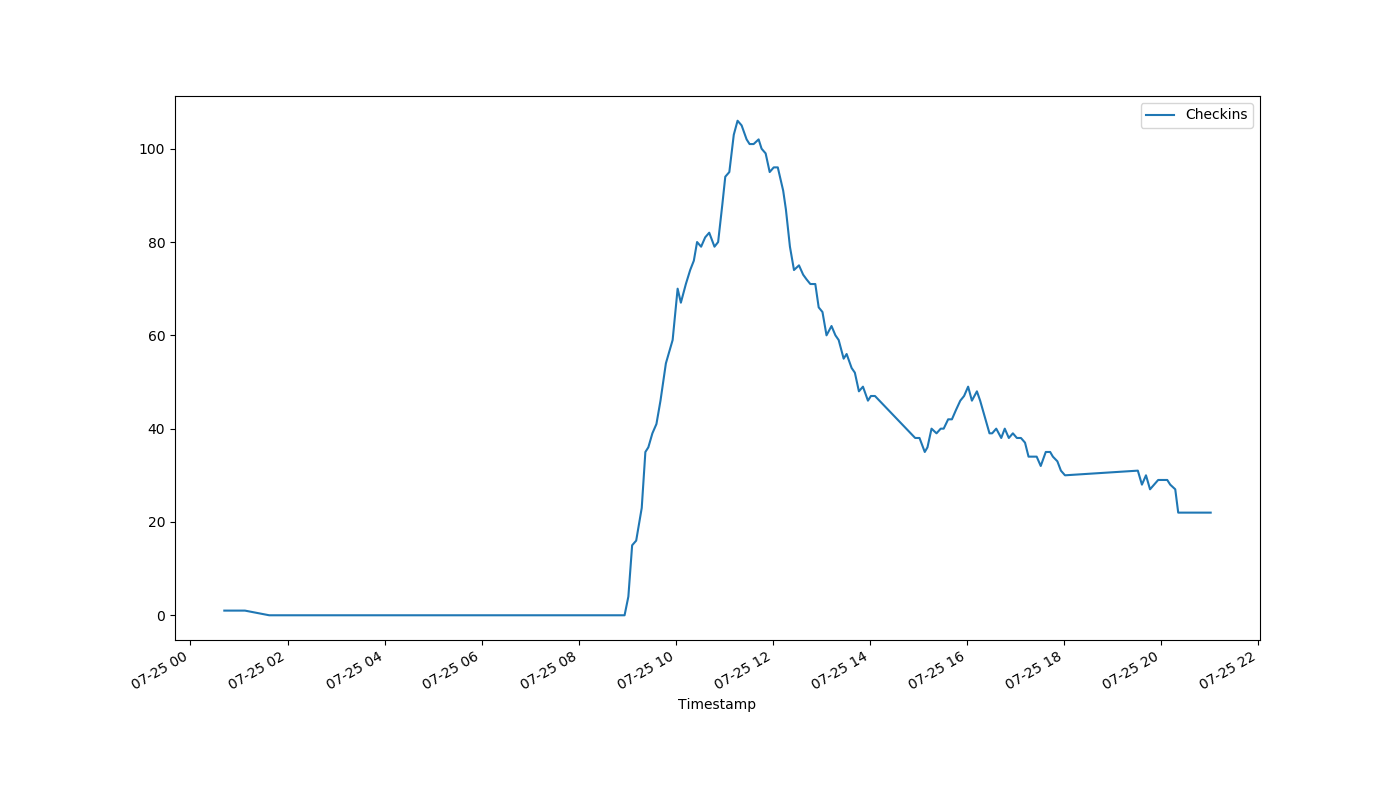
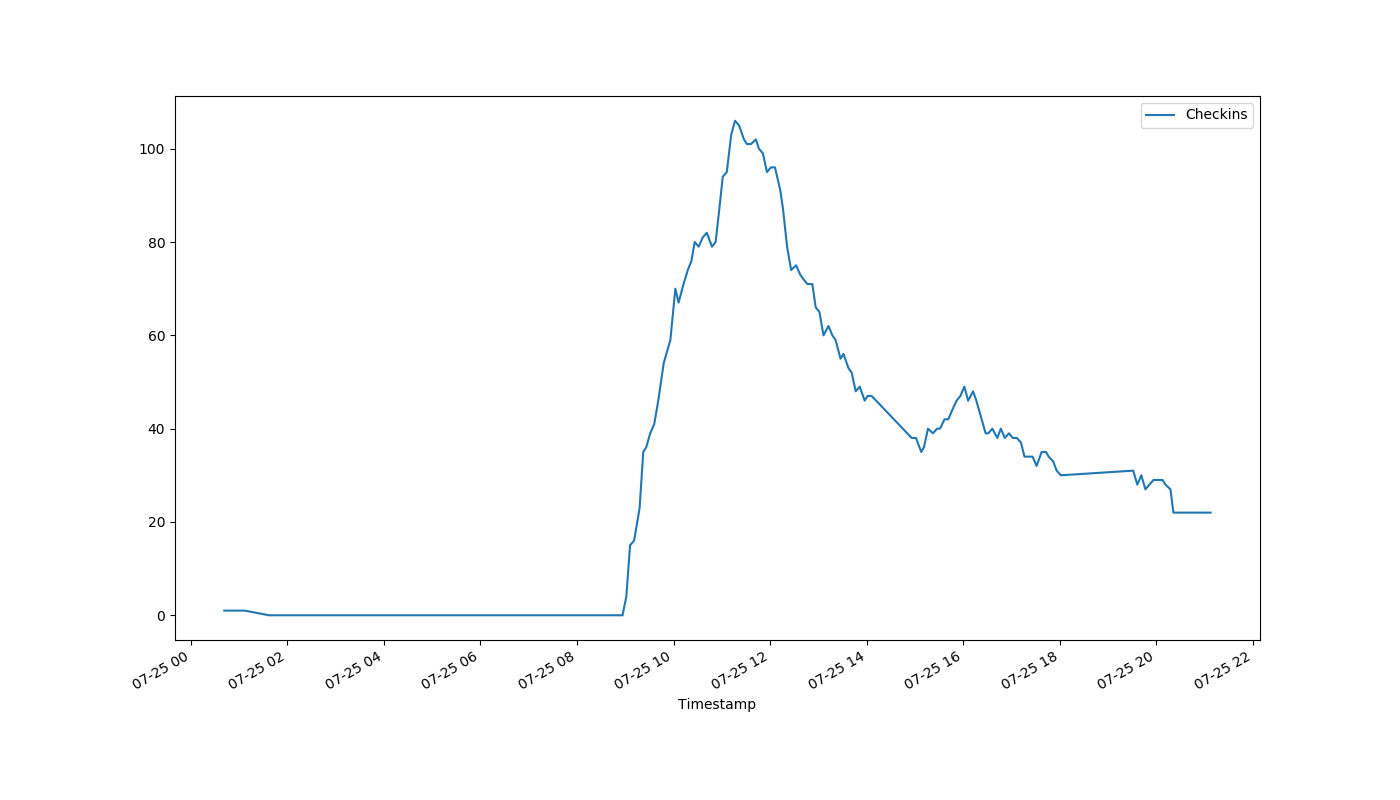
auto-Jul-25-21:08:20

diff --git a/index.html b/index.html
@@ -1,1 +1,1 @@
-<!DOCTYPE html><html><head><meta http-equiv="refresh" content="30"><link rel='stylesheet' href='holmcurrent.css'></head><body><p id='count'>22</p><div id='graph-wrap'><img id='graph' src='holmgraph-Jul-25.png'></div><p id='updated'>Last updated 21:02:09 / 21:01:09</p></body></html>
+<!DOCTYPE html><html><head><meta http-equiv="refresh" content="30"><link rel='stylesheet' href='holmcurrent.css'></head><body><p id='count'>22</p><div id='graph-wrap'><img id='graph' src='holmgraph-Jul-25.png'></div><p id='updated'>Last updated 21:08:09 / 21:07:20</p></body></html>
